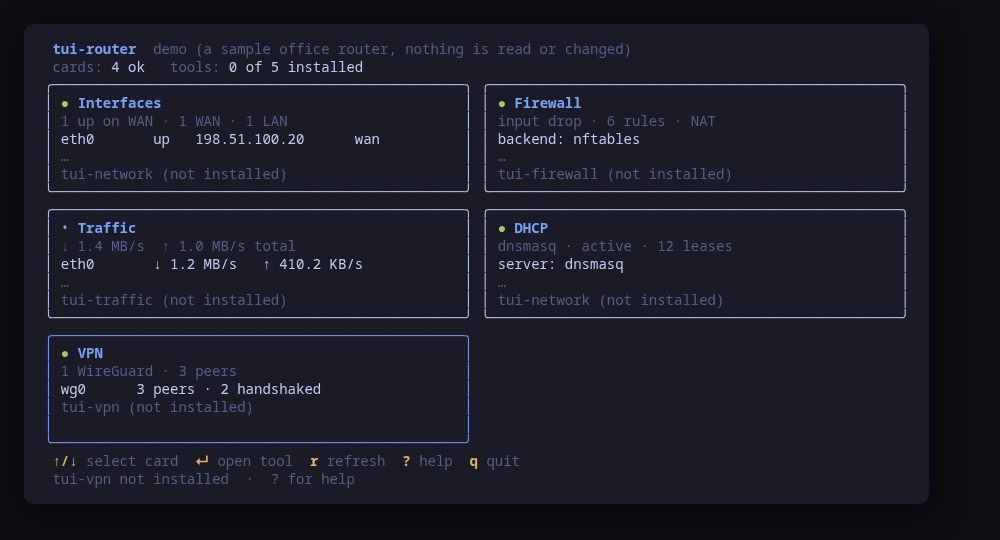
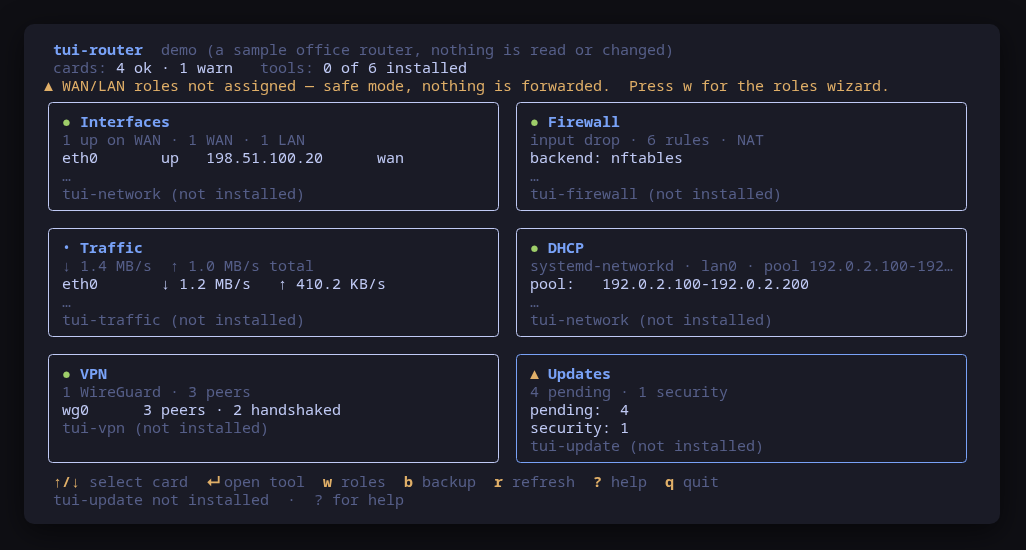
0.3.3: tui-kit v0.4.4 (#13)
Claude-Session: https://claude.ai/code/session_01MbCfX3T8khyd9hsrN5kMo3

diff --git a/README.md b/README.md
@@ -22,7 +22,11 @@ tui-traffic, tui-vpn — and resumes when you leave it, the same handoff the
 family launcher uses. The overview is here; the change happens in the tool the
 card opens, behind that tool's own preview and confirm.
 
-> Beta. Part of the tui-tools family and still under validation.
+<!-- stability:start -->
+> **Beta.** The family is days old and still changing. Package names, flags
+> and keys may move without notice until 1.0. Pin versions, and report what
+> breaks.
+<!-- stability:end -->
 
 ## The cards
 
@@ -219,7 +223,7 @@ Available once tui-router's first release lands in pkgs.tui.tools.
 ### Any distribution, static binary — coming soon
 
 ```sh
-curl -fsSL https://github.com/tui-tools/tui-router/releases/download/v0.3.2/tui-router_0.3.2_linux_amd64.tar.gz | tar -xz tui-router
+curl -fsSL https://github.com/tui-tools/tui-router/releases/download/v0.3.3/tui-router_0.3.3_linux_amd64.tar.gz | tar -xz tui-router
 sudo install -m0755 tui-router /usr/local/bin/tui-router
 ```
 
